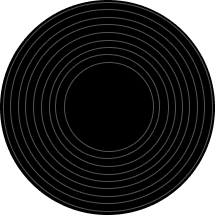
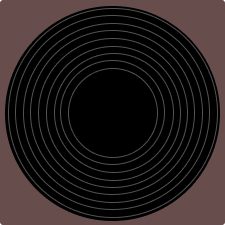
added record player

diff --git a/App/App.h b/App/App.h
@@ -31,13 +31,15 @@ class App {
   sf::Font regular_font_;
 
   sf::RenderWindow* window_;
-  kat::Div buttons_palette_, music_holder_div_;
+  kat::Div buttons_palette_;
 
   kat::Button clear_tree_, play_pause_btn_;
 
   sf::SoundBuffer music_buffer_;
-  sf::Texture cover_texture_, play_texture_, pause_texture_, vinyl_record_texture_;
-  sf::Sprite play_sprite_, pause_sprite_, cover_sprite_, vinyl_record_sprite_;
+  sf::Texture cover_texture_, play_texture_, pause_texture_,
+              vinyl_record_texture_, no_vinyl_record_texture_;
+  sf::Sprite play_sprite_, pause_sprite_, cover_sprite_,
+            vinyl_record_sprite_, no_vinyl_record_sprite_;
   sf::Sound music_sound_;
 
   kat::TextInput vertex_input_;
@@ -87,31 +89,31 @@ App::App() {
   main_violet_ = sf::Color(235, 215, 245);
   regular_font_.loadFromFile("../assets/fonts/KodeMono.ttf");
 
-  buttons_palette_ = kat::Div(5, 5, 230, 740, window_);
+  buttons_palette_ = kat::Div(5, 5, 235, 740, window_);
   buttons_palette_.setBackgroundColor(main_violet_);
   buttons_palette_.setBorderRadius(10);
   buttons_palette_.setNeedRender(false);
 
-  music_holder_div_ = kat::Div(10, 525, 215, 215, window_);
-  music_holder_div_.setBackgroundColor(sf::Color::Black);
-  music_holder_div_.setBorderRadius(107);
-
   vinyl_record_texture_.loadFromFile("../assets/vinyl-record.png");
   vinyl_record_sprite_.setTexture(vinyl_record_texture_);
-  vinyl_record_sprite_.move({10, 525});
+  vinyl_record_sprite_.move({10, 510});
 
-  play_pause_btn_ = kat::Button(20, 525, 25, 25, "", regular_font_, window_);
+  no_vinyl_record_texture_.loadFromFile("../assets/no-vinyl-record.png");
+  no_vinyl_record_sprite_.setTexture(no_vinyl_record_texture_);
+  no_vinyl_record_sprite_.move({10, 510});
+
+  play_pause_btn_ = kat::Button(20, 520, 25, 25, "", regular_font_, window_);
   play_pause_btn_.setBackgroundColor(sf::Color::Transparent);
 
   play_texture_.loadFromFile("../assets/play-button.png");
   play_sprite_.setTexture(play_texture_);
-  play_sprite_.move({20, 525});
+  play_sprite_.move({20, 520});
 
   pause_texture_.loadFromFile("../assets/pause-button.png");
   pause_sprite_.setTexture(pause_texture_);
-  pause_sprite_.move({20, 525});
+  pause_sprite_.move({20, 520});
 
-  cover_sprite_.move({83, 597});
+  cover_sprite_.move({88, 588});
 
   vertex_input_ = kat::TextInput(15, 55, 210, 40, regular_font_, window_);
   vertex_input_.setFontSize(20);
@@ -274,7 +276,7 @@ void App::render() {
       if (record_set_) {
         window_->draw(vinyl_record_sprite_);
       } else {
-        music_holder_div_.render();
+        window_->draw(no_vinyl_record_sprite_);
       }
       window_->draw(cover_sprite_);
       if (!play_music_) {
@@ -418,7 +420,7 @@ void App::leftMousePressed(sf::Event& e) {
         music_manager_.setAudio(splay_nodes_);
       }
     }
-    if (play_pause_btn_.isPressed((float)e.mouseButton.x, (float)e.mouseButton.y)) {
+    if (record_set_ && play_pause_btn_.isPressed((float)e.mouseButton.x, (float)e.mouseButton.y)) {
       if (play_music_) {
         music_sound_.pause();
       } else {
